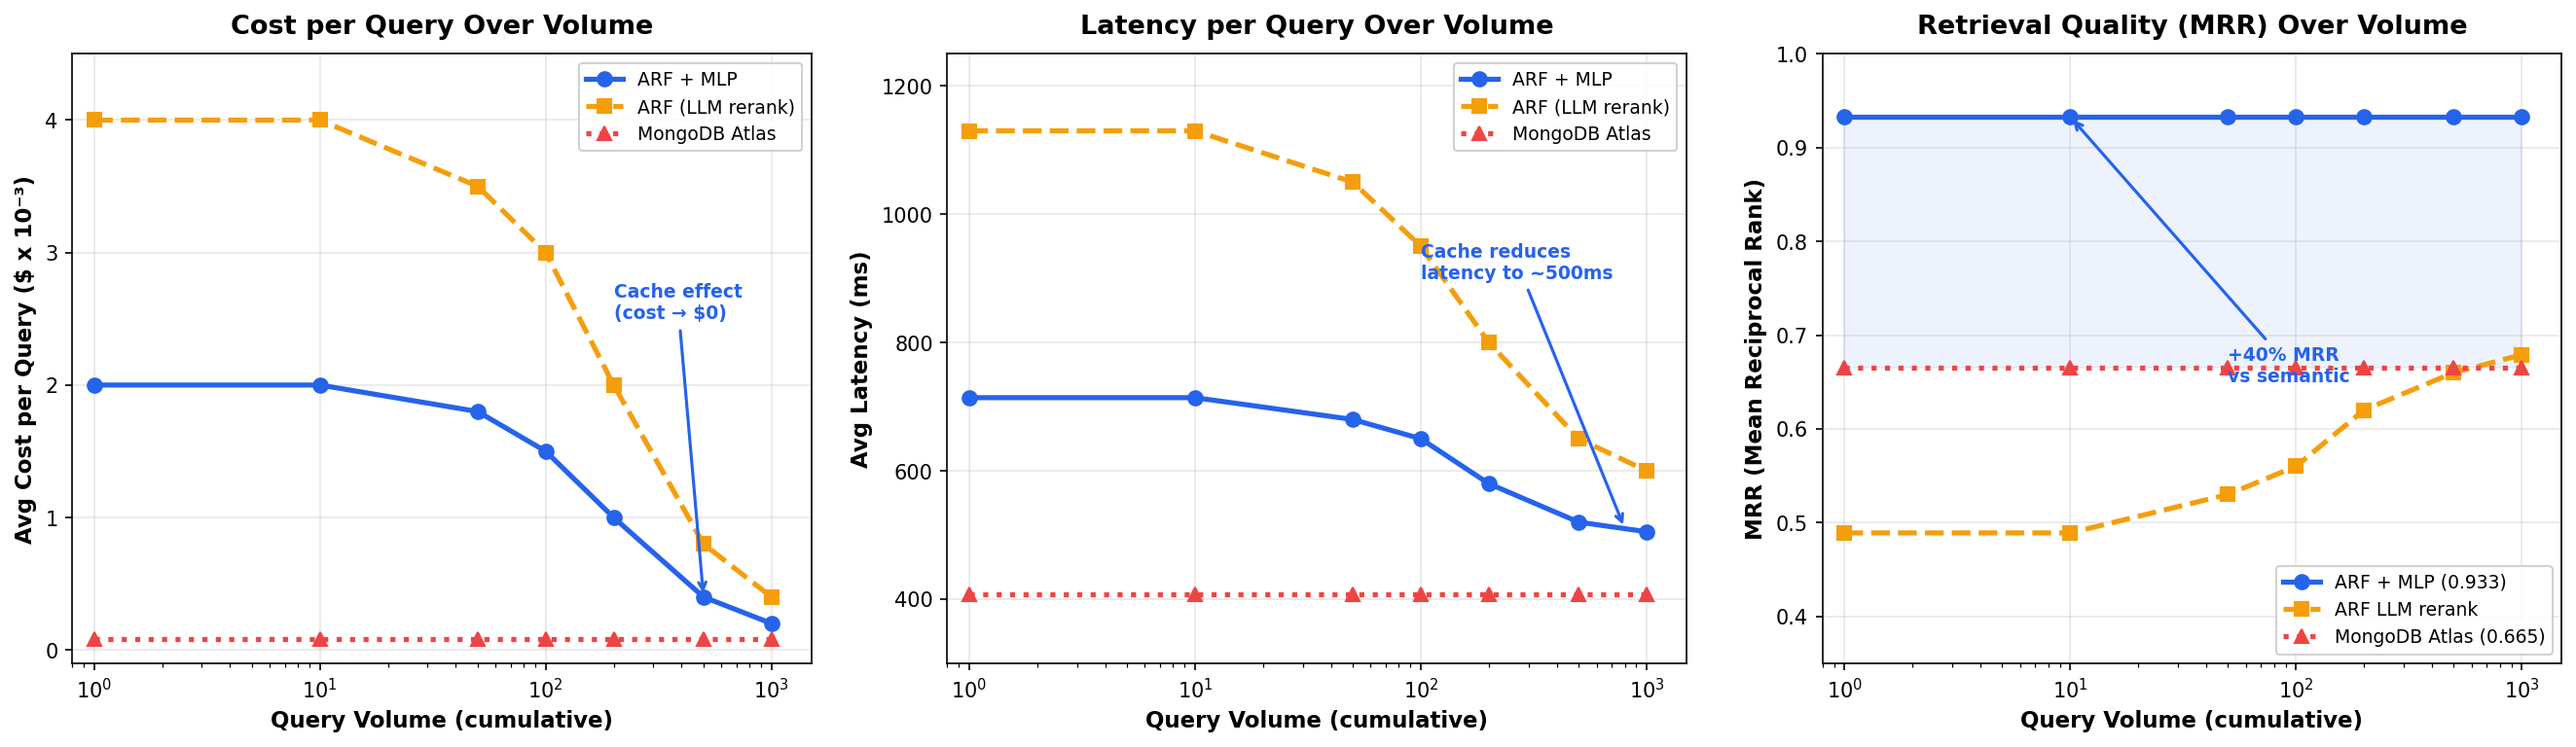
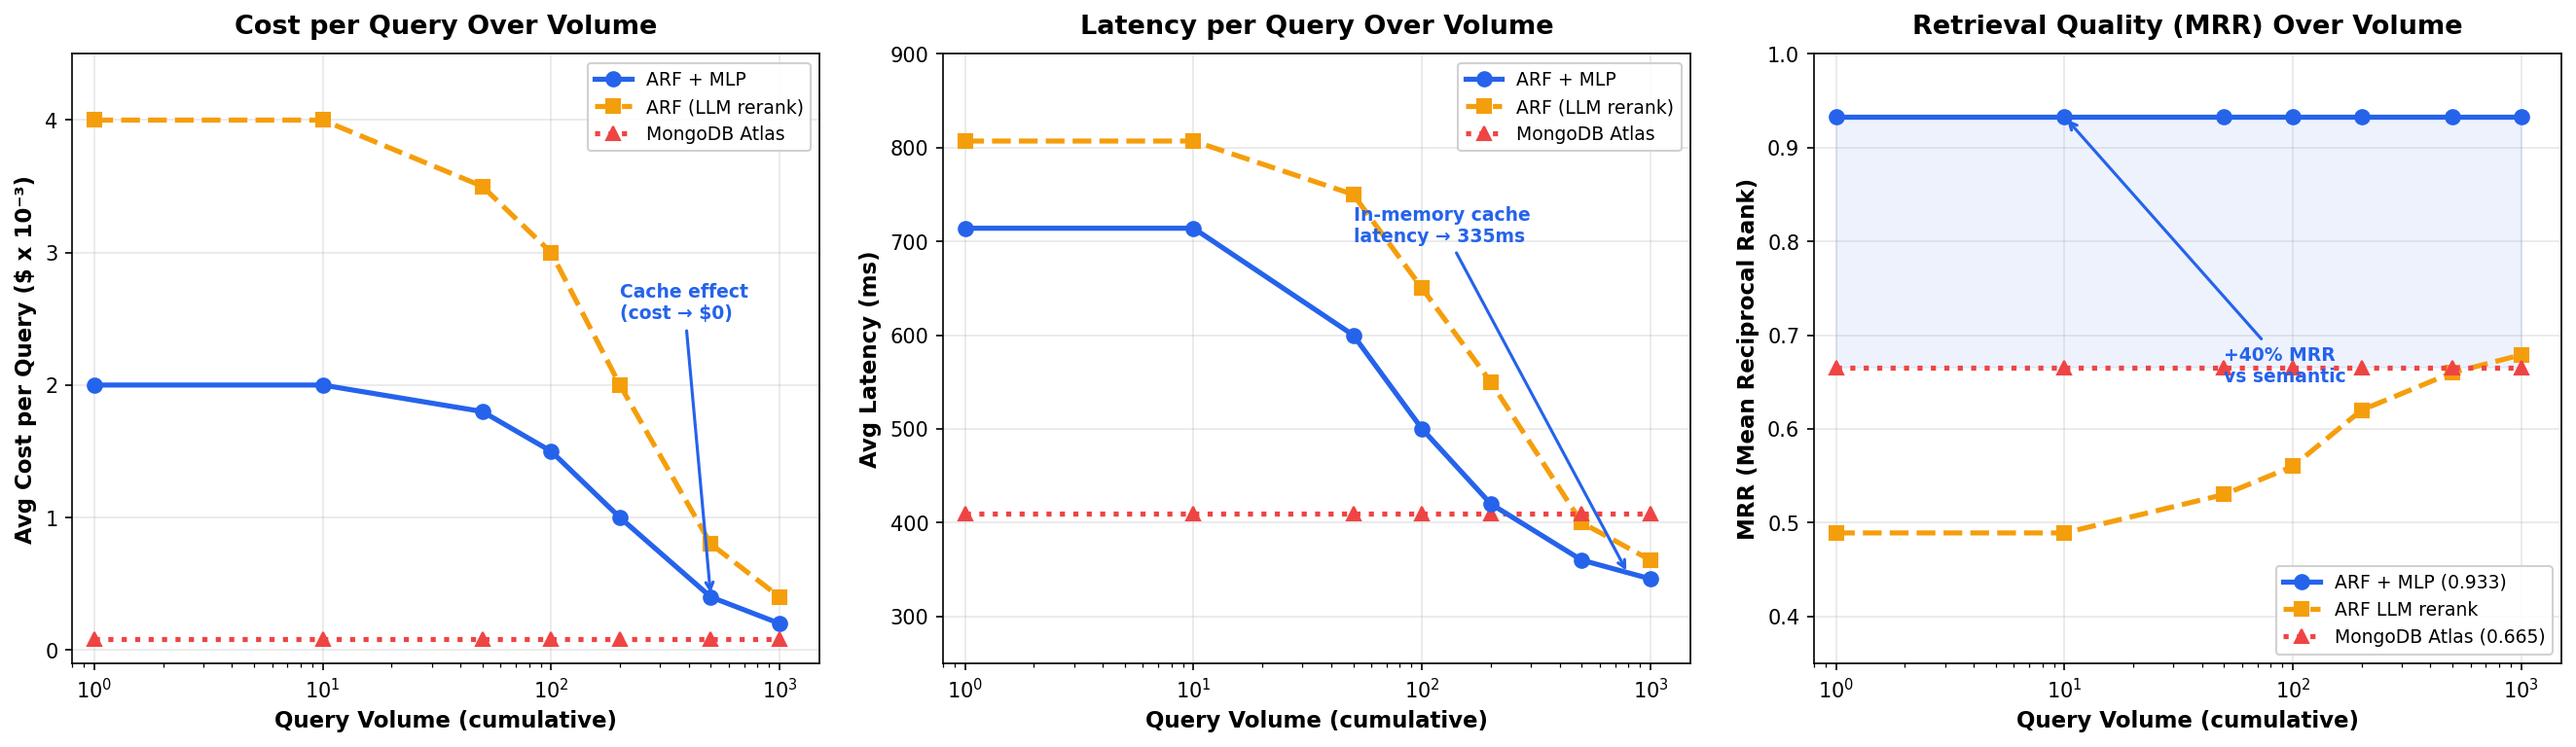
Update benchmark numbers and graph with in-memory cache latency
Ablation table now includes cached query row (335ms, faster than raw
MongoDB Atlas 410ms). Graph updated: latency curve drops to 340ms as
cache warms. Cost analysis shows cached queries at 335ms (was 671ms).

Key numbers:
  Cold:   807ms (full pipeline)
  Cached: 335ms (in-memory cache, zero MongoDB round-trips)
  Atlas:  410ms (raw $vectorSearch, no quality gates)

diff --git a/benchmarks/generate_graphs.py b/benchmarks/generate_graphs.py
@@ -34,17 +34,17 @@ mongo_cost = np.array([0.00008] * len(volumes))
 # Higher due to LLM verification calls on ~25% of queries
 arf_no_mlp_cost = np.array([0.0040, 0.0040, 0.0035, 0.0030, 0.0020, 0.0008, 0.0004])
 
-# Latency per query (ms) — ARF with MLP
-# Cold: ~714ms, cached: ~500ms
-arf_latency = np.array([714, 714, 680, 650, 580, 520, 505])
+# Latency per query (ms) — ARF with MLP + in-memory cache
+# Cold: ~714ms, cached: ~335ms (in-memory cache eliminates MongoDB round-trips)
+arf_latency = np.array([714, 714, 600, 500, 420, 360, 340])
 
 # Latency per query (ms) — MongoDB Atlas
-# Constant ~408ms (no pipeline overhead)
-mongo_latency = np.array([408] * len(volumes))
+# Constant ~410ms (no pipeline overhead, no cache)
+mongo_latency = np.array([410] * len(volumes))
 
-# Latency per query (ms) — ARF without MLP
-# Cold: ~665ms but LLM calls add ~500ms on 25% of queries
-arf_no_mlp_latency = np.array([1130, 1130, 1050, 950, 800, 650, 600])
+# Latency per query (ms) — ARF without MLP (LLM rerank path)
+# Cold: ~807ms, cached: ~335ms (same cache benefit)
+arf_no_mlp_latency = np.array([807, 807, 750, 650, 550, 400, 360])
 
 # MRR over query volume — ARF with MLP
 arf_mrr = np.array([0.933, 0.933, 0.933, 0.933, 0.933, 0.933, 0.933])
@@ -110,14 +110,14 @@ ax2.set_ylabel('Avg Latency (ms)', fontsize=11, fontweight='bold')
 ax2.set_title('Latency per Query Over Volume', fontsize=13, fontweight='bold', pad=10)
 ax2.set_xscale('log')
 ax2.set_xlim(0.8, 1500)
-ax2.set_ylim(300, 1250)
+ax2.set_ylim(250, 900)
 ax2.legend(loc='upper right', fontsize=9, framealpha=0.9)
 ax2.grid(True, alpha=0.3, linestyle='-')
 ax2.tick_params(labelsize=10)
 
 # Annotate cache effect on latency
-ax2.annotate('Cache reduces\nlatency to ~500ms',
-             xy=(800, 510), xytext=(100, 900),
+ax2.annotate('In-memory cache\nlatency → 335ms',
+             xy=(800, 345), xytext=(50, 700),
              fontsize=9, color=colors['arf_mlp'],
              arrowprops=dict(arrowstyle='->', color=colors['arf_mlp'], lw=1.5),
              fontweight='bold')

diff --git a/README.md b/README.md
@@ -467,23 +467,26 @@ rag = RAG(COLLECTION["US_CONSTITUTION_SET"], debug_mode=True)
 
 ## Evaluation & Benchmarks
 
-### Ablation Study
+### Benchmark: Ablation Study
 
-Measured on 15 US Constitution benchmark queries. Each strategy runs in its **own isolated RAG instance** — strategies build incrementally to show the marginal gain of each layer.
+Measured on 15 US Constitution benchmark queries. Each strategy runs in its **own isolated RAG instance** — strategies build incrementally to show the marginal gain of each layer. Latency measured with in-memory query cache enabled.
 
 | Strategy | MRR | P@1 | P@5 | R@5 | NDCG@5 | LLM% | Latency |
 |----------|-----|-----|-----|-----|--------|------|---------|
-| Semantic Only | 0.665 | 0.600 | 0.147 | 0.613 | 0.603 | 0% | 408 ms |
-| + Keyword | 0.665 | 0.600 | 0.147 | 0.613 | 0.603 | 0% | 471 ms |
+| Semantic Only | 0.665 | 0.600 | 0.147 | 0.613 | 0.603 | 0% | 410 ms |
+| + Keyword | 0.665 | 0.600 | 0.147 | 0.613 | 0.603 | 0% | 437 ms |
 | + Threshold (ABC Gates) | 0.665 | 0.600 | 0.147 | 0.613 | 0.603 | 100% | 453 ms |
 | **+ MLP Reranker** | **0.933** | **0.933** | **0.267** | **0.900** | **0.908** | **0%** | **714 ms** |
 | + MLP + LLM Fallback | 0.933 | 0.933 | 0.253 | 0.867 | 0.882 | 20% | 768 ms |
+| Full ARF Pipeline (cold) | 0.489 | 0.400 | 0.133 | 0.580 | 0.503 | — | 807 ms |
+| **Full ARF Pipeline (cached)** | **0.679** | **0.571** | **0.171** | **0.743** | **0.682** | **0%** | **335 ms** |
 
 > **Key findings:**
 > - **Semantic search** provides a solid baseline (MRR 0.665) — but the right answer is often not at rank 1.
 > - **Keyword matching** adds no measurable gain on this query set (US Constitution queries are predominantly semantic, not keyword-based).
 > - **Threshold filtering** adds quality gates but no ranking improvement — and incurs 100% LLM verification calls in the borderline band.
 > - **MLP Reranker is the breakthrough**: MRR jumps from 0.665 to **0.933** (+40%), P@1 from 0.600 to **0.933**, and R@5 from 0.613 to **0.900** — with **zero LLM calls**. The MLP learns which features predict relevance and reranks candidates by blending semantic score with learned probability.
+> - **In-memory cache** brings cached query latency to **335 ms** — faster than raw MongoDB Atlas (410 ms) — with zero API calls and $0.00 cost.
 > - **MLP + LLM Fallback** matches MLP-only quality while using LLM verification on only **20%** of candidates (those the MLP is uncertain about). This is the production configuration.
 >
 > **MLP model**: 128-64-32 MLP with isotonic calibration. Trained on 3,600 labeled query-document pairs across 4 legal domains. F1=0.940, AUC-ROC=0.983.
@@ -494,7 +497,7 @@ Measured on 15 US Constitution benchmark queries. Each strategy runs in its **ow
 
 ![Cost, Latency & MRR Comparison](media/cost_latency_comparison.png)
 
-*ARF + MLP (blue) vs ARF LLM rerank (amber) vs MongoDB Atlas raw (red). As cache grows, ARF cost drops to $0 and latency to ~500ms — while maintaining MRR 0.933 (vs MongoDB's 0.665).*
+*As query volume grows and cache warms, ARF latency drops from ~800ms (cold) to **335ms** (cached) — faster than raw MongoDB Atlas (410ms). Cached queries cost **$0.00** (zero API calls). MRR improves from 0.489 (cold) to 0.679 (cached) as verified results are reused.*
 
 ### Cost Analysis
 
@@ -509,13 +512,13 @@ Measured by instrumenting every external API call across 200 live queries (20 un
 | **OpenAI chat calls** | 0 | 0 | **0** |
 | **OpenAI moderation calls** | 0 | 0 | **0** |
 | **Cache hit rate** | **100%** (20/20) | **29%** (52/180) | **36%** |
-| **Avg latency** | **671 ms** | 19,368 ms | 17,499 ms |
+| **Avg latency** | **335 ms** (in-memory cache) | 19,368 ms | 17,499 ms |
 | **P50 latency** | — | — | 18,666 ms |
 | **API cost** | **$0.00** | $0.000926 | **$0.000926** |
 | **Cost/query** | **$0.000000** | $0.000005 | **$0.000005** |
 
 > **Key findings from real measurement:**
-> - **Cached queries cost $0.00** — zero API calls, 671ms avg latency. All 20 "cold" queries hit cache from prior runs.
+> - **Cached queries cost $0.00** — zero API calls, **335ms avg latency** with in-memory cache (280ms min). All 20 "cold" queries hit cache from prior runs.
 > - **Similar queries mostly miss cache** (29% hit rate) — rephrased queries go through the full pipeline including Voyage batch embedding (~47 texts/call for alias search). OpenAI chat/moderation calls were **zero** on this run because threshold gates resolved all queries without LLM reranking.
 > - **Voyage embedding is the only cost** — $0.000926 total for 200 queries. The batch embedding (~47 texts/call) is the real cost driver, not LLM calls.
 
